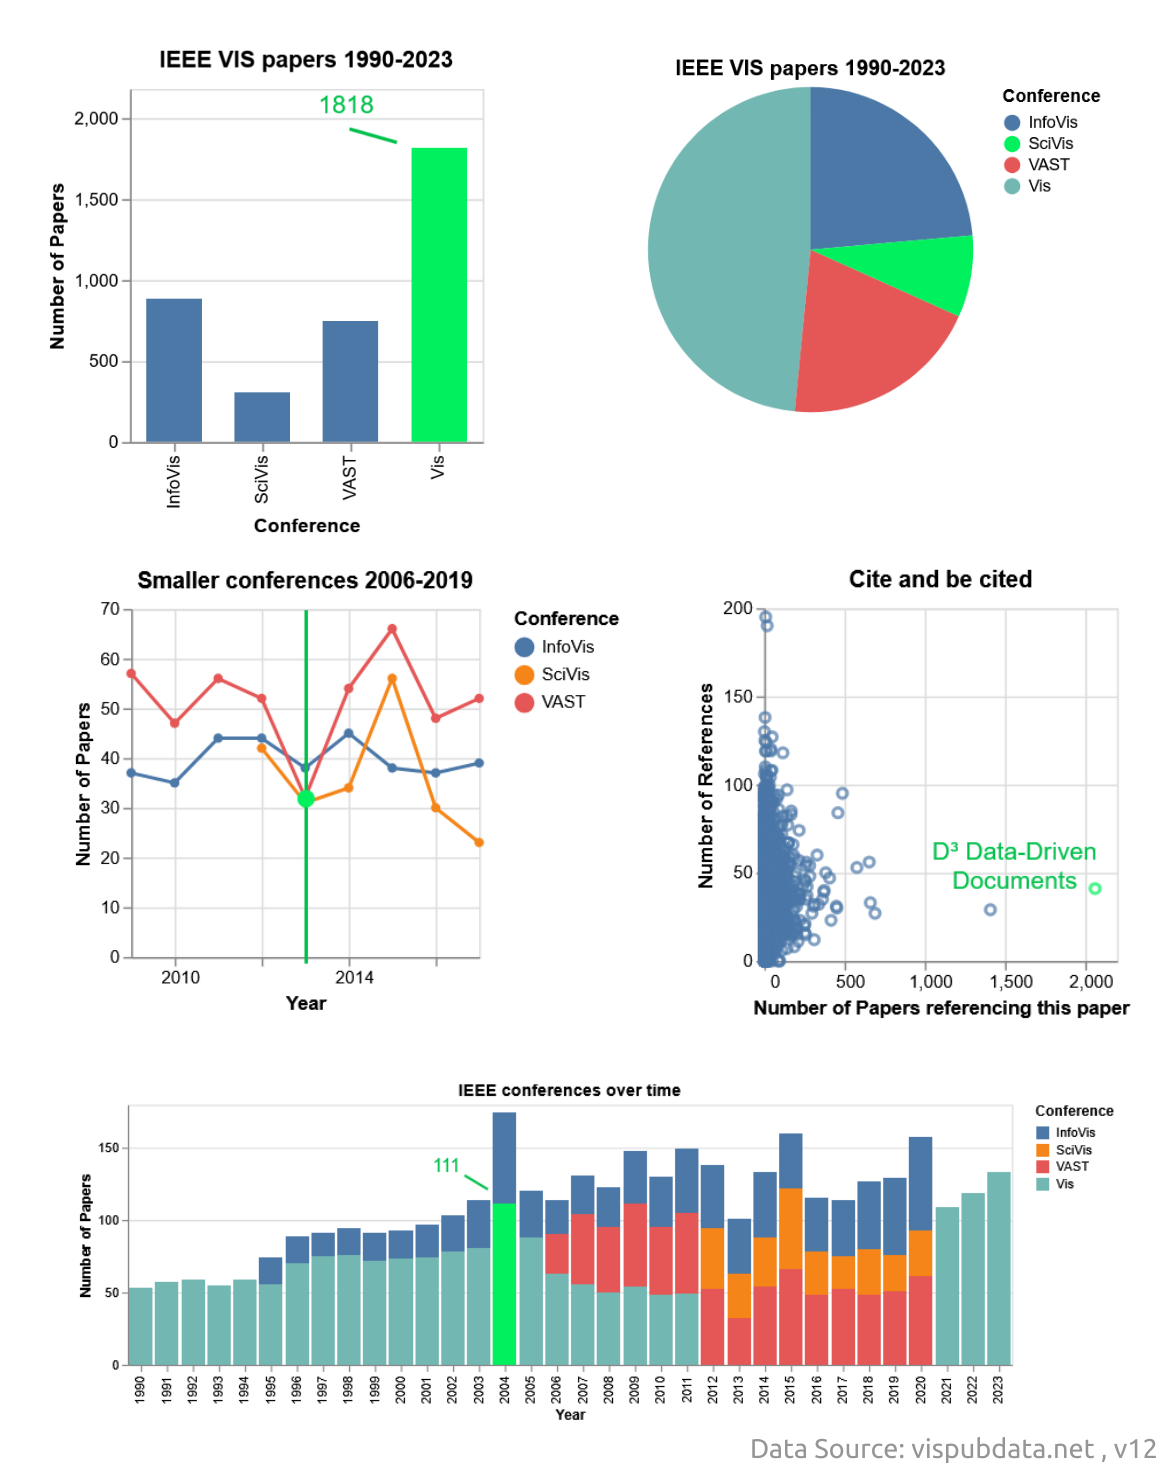
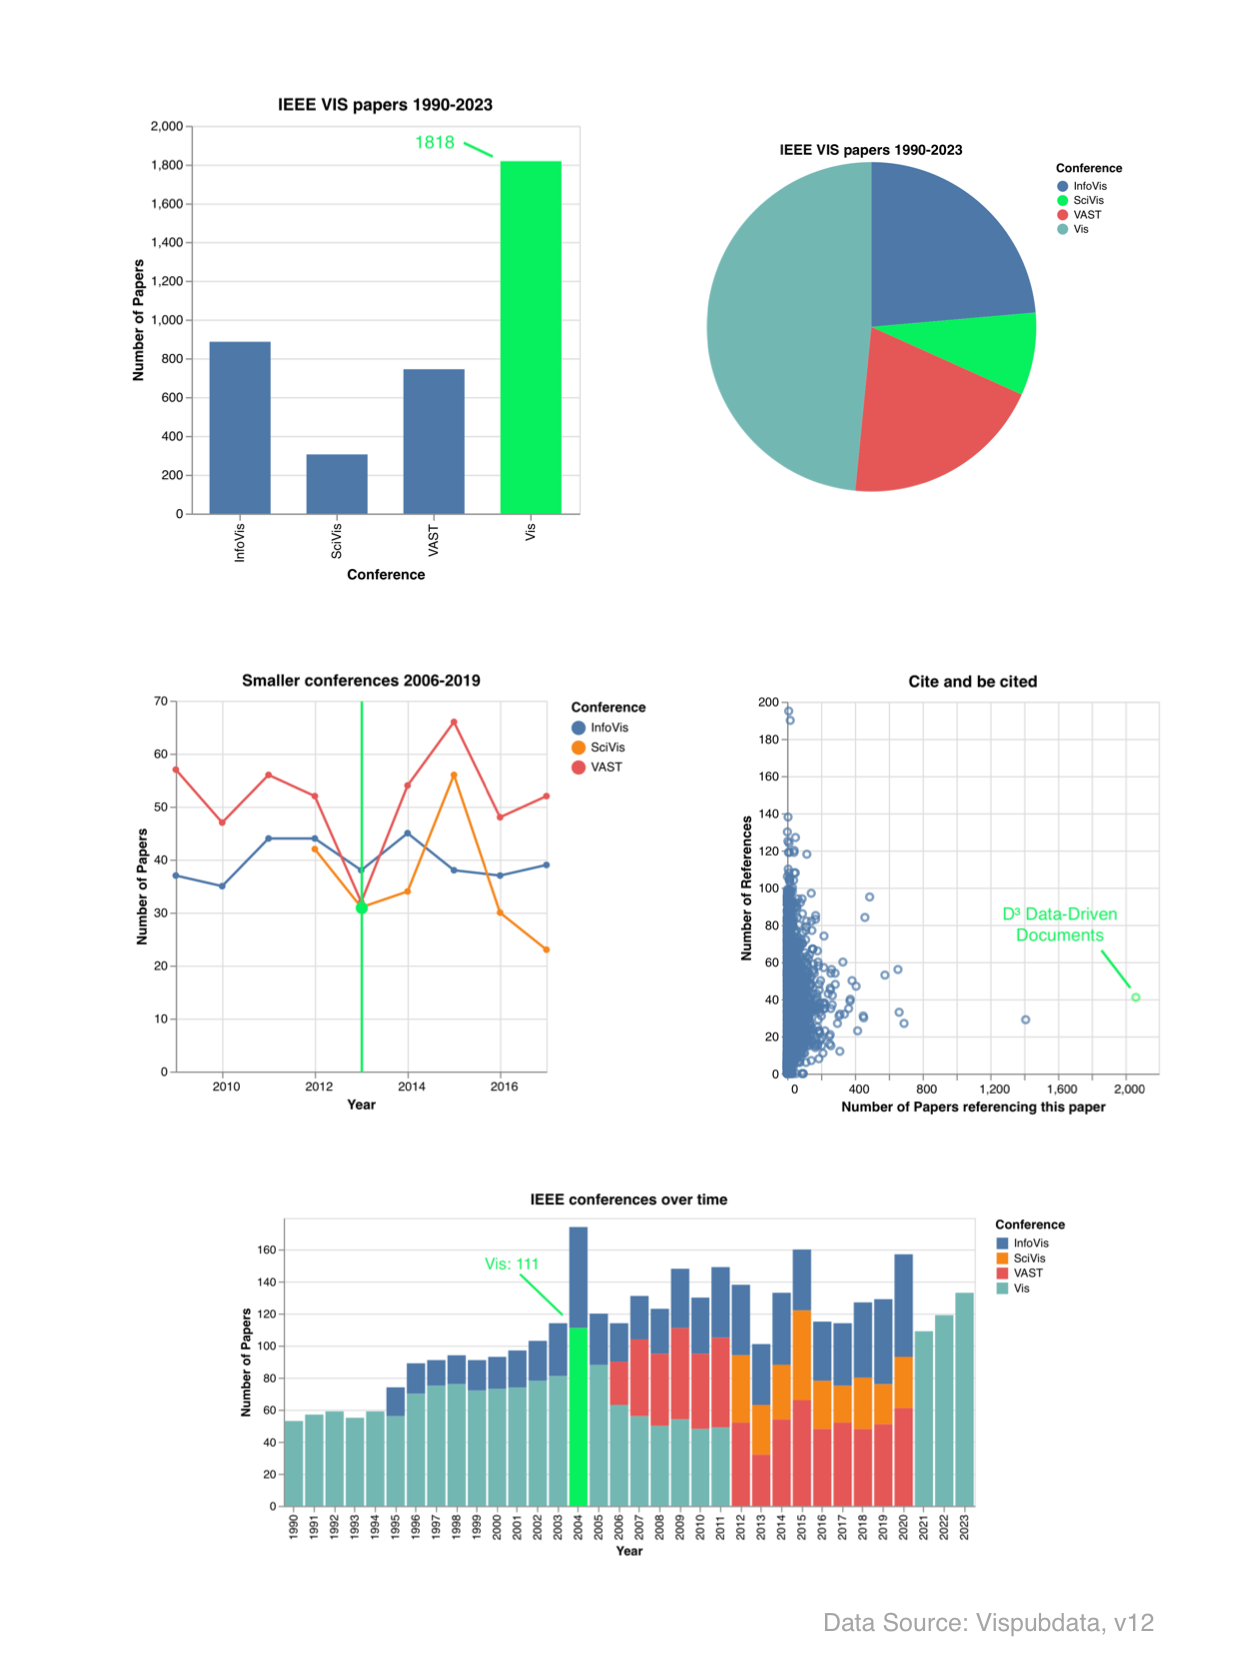
chart overview high-res / more whitespace

diff --git a/README.md b/README.md
@@ -1,7 +1,7 @@
 # !nflect <sub>📊</sub><sup>💬</sup>
 ## Modulating visualizations to tell stories with data
 
-This is a web-based template implementing inflections as a method to bridge the gap between data exploration and storytelling, by interweaving [visualization](img/#10,8,1162,1476&ff0000&&&chart_overview.png) states with narrative segments. By linking to specific views and annotations in visualizations, authors can embed insights from their data analysis within the narrative flow. 
+This is a web-based template implementing inflections as a method to bridge the gap between data exploration and storytelling, by interweaving [visualization](img/#-68,-35,1325,1741&ff0000&&&chart_overview.png) states with narrative segments. By linking to specific views and annotations in visualizations, authors can embed insights from their data analysis within the narrative flow. 
 
 - See the 📜<a href="https://uclab-potsdam.github.io/inflect/">Scrollytelling</a> in action, if you read this as a regular Readme
 - Fork this ⚙<a href="https://github.com/uclab-potsdam/inflect">Repository</a> to create your data story with inflected visualizations

diff --git a/visualizations.md b/visualizations.md
@@ -48,7 +48,7 @@ Doesn't appear so.
 
 
 
-The paper ["D³ Data-Driven Documents"](vis/#IEEEvis_citeAndCited&col=%2300F05E&yax=0;200&xax=0;2197.8&line=&ann=1558.39%3B0%3B58.2%3B0%3BD%C2%B3%20Data-Driven%0ADocuments&high=2061;41) by Michael Bostock et al. is the most cited of them all - 2061 times!
+The paper ["D³ Data-Driven Documents"](vis/#IEEEvis_citeAndCited&col=%2300F05E&yax=0;200&xax=0;2197.8&line=1854.19;0;2024.56;0;66.7;0;46.4;0&ann=1610.09%3B0%3B83.1%3B0%3BD%C2%B3%20Data-Driven%0ADocuments&high=2061;41) by Michael Bostock et al. is the most cited of them all - 2061 times!
 
 
 And it makes sense that the paper that references the most is a [review](vis/#IEEEvis_citeAndCited&col=%2300F05E&yax=0;200&xax=0;2197.8&line=&ann=&high=9;195): "A Structured Review of Data Management Technology for Interactive Visualization and Analysis" by Leilani Battle and Carlos Scheidegger.
